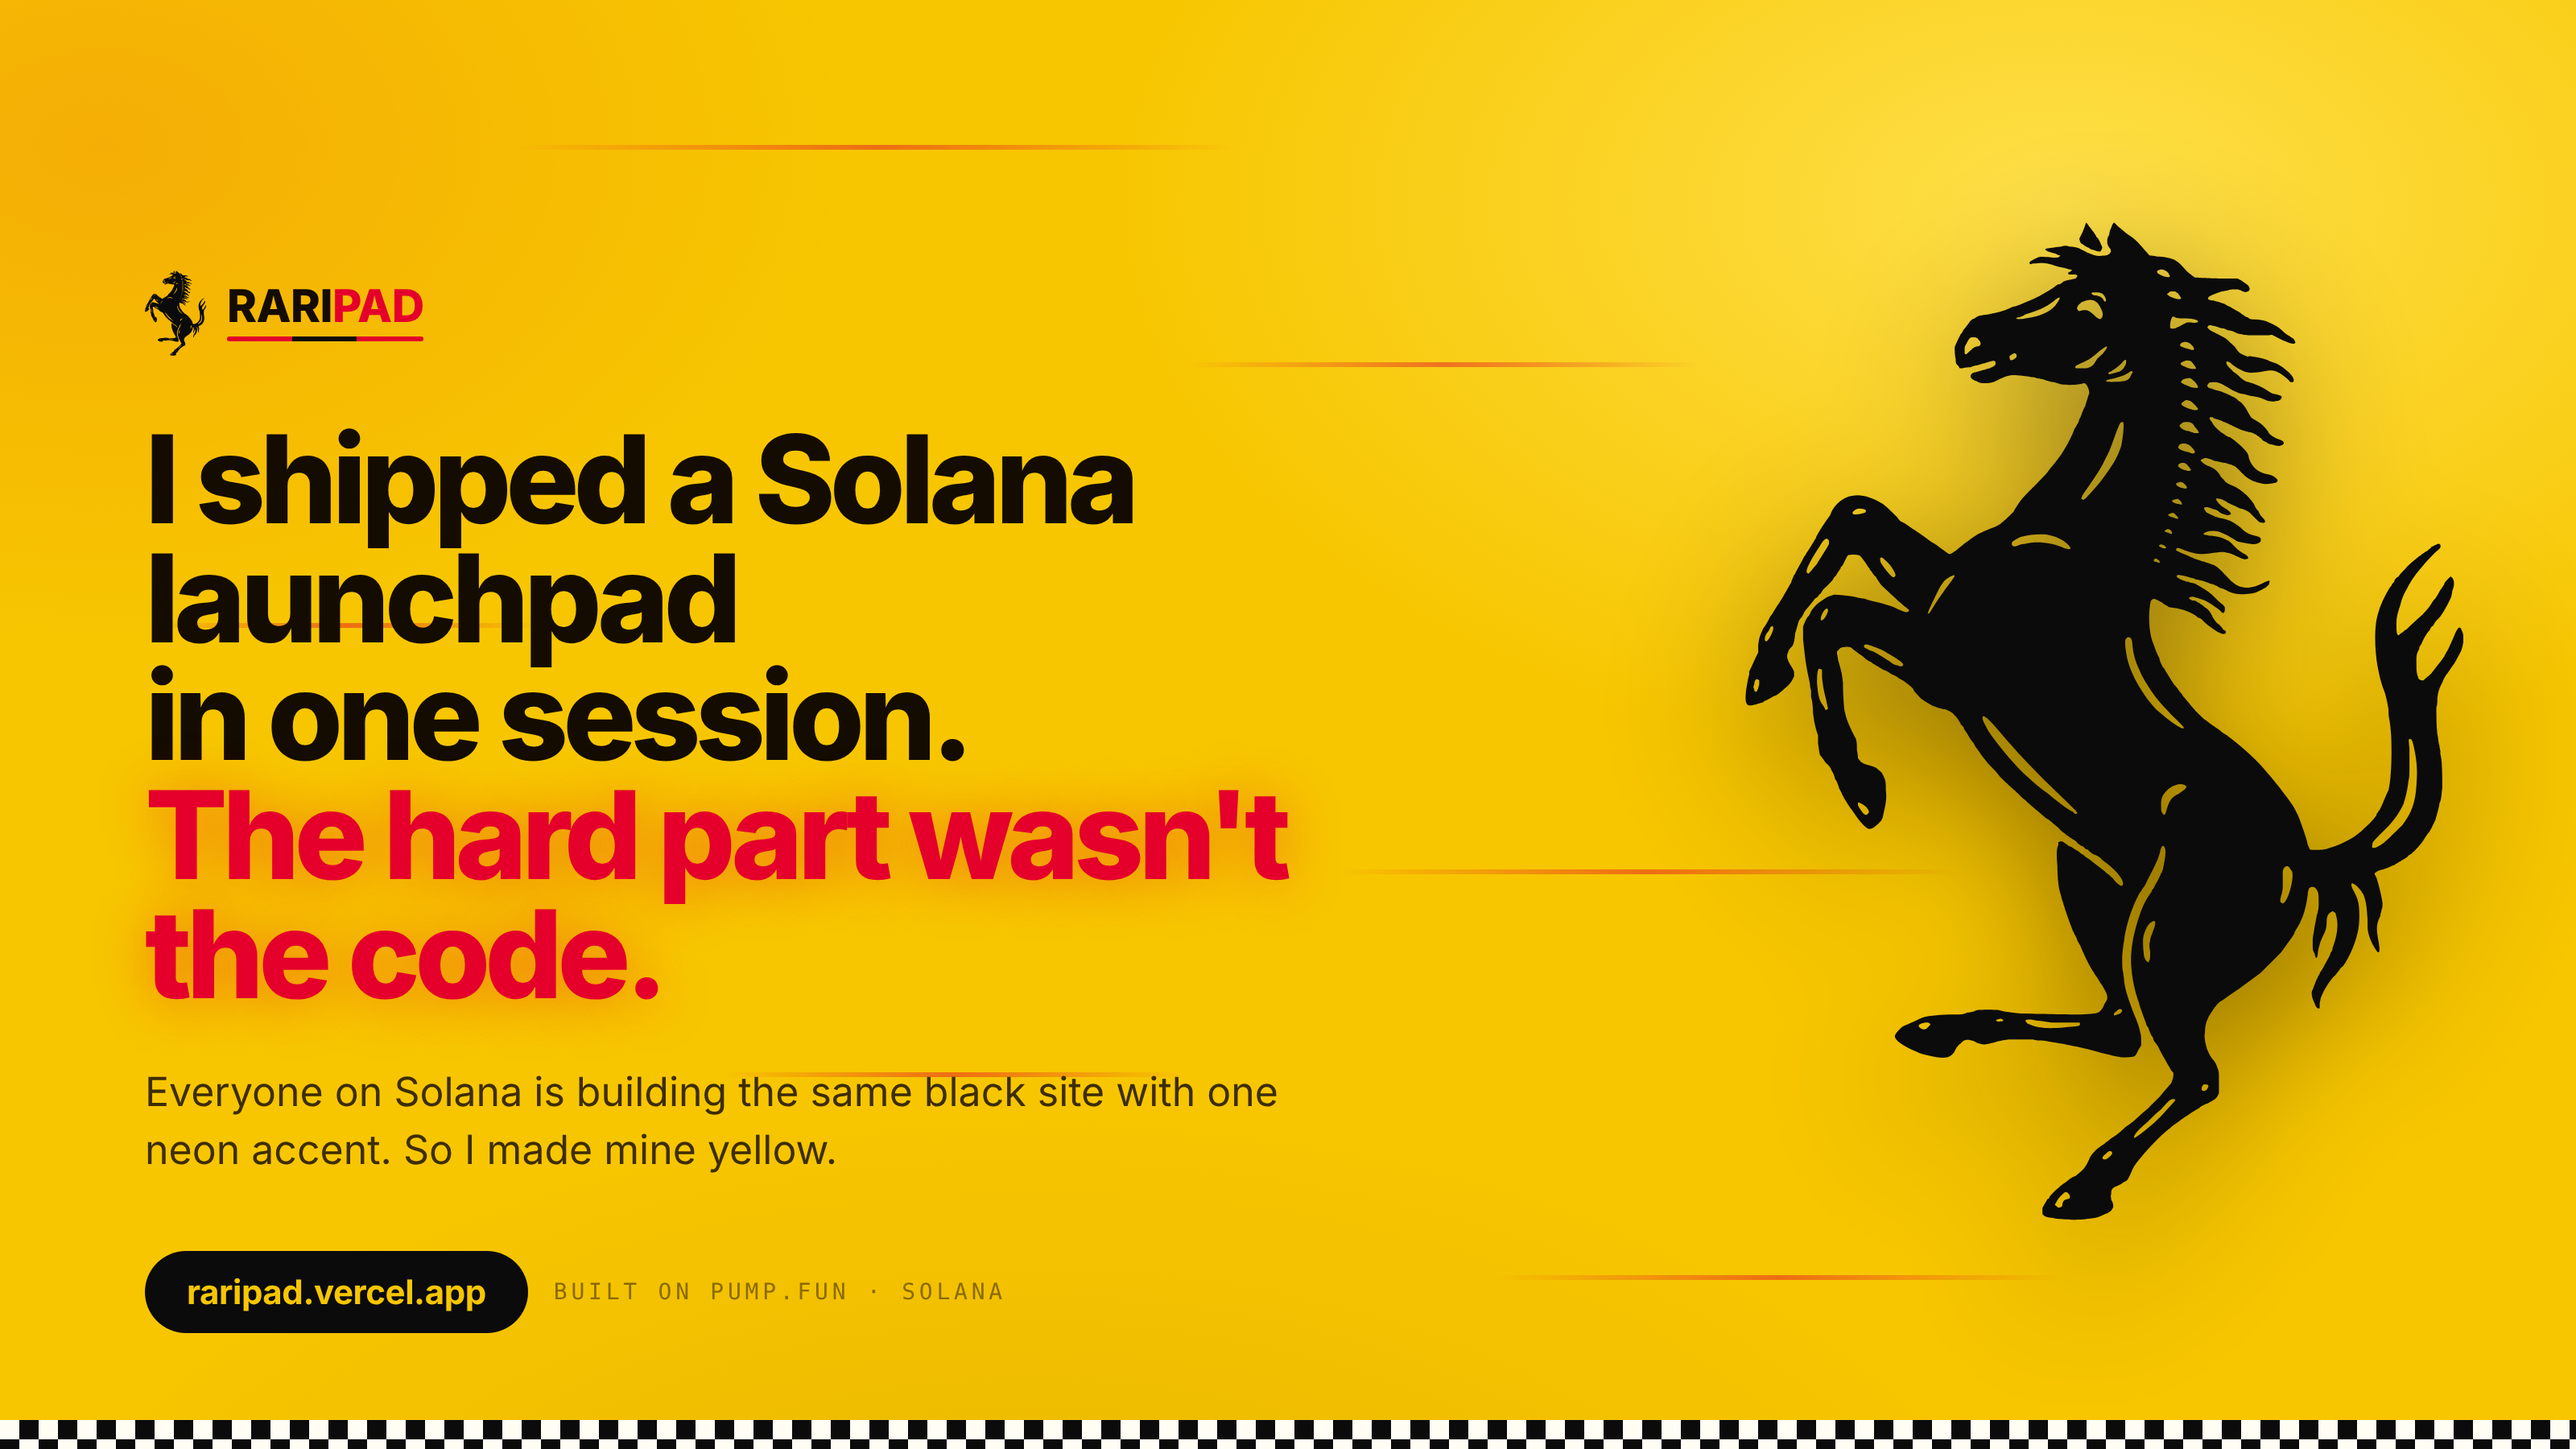
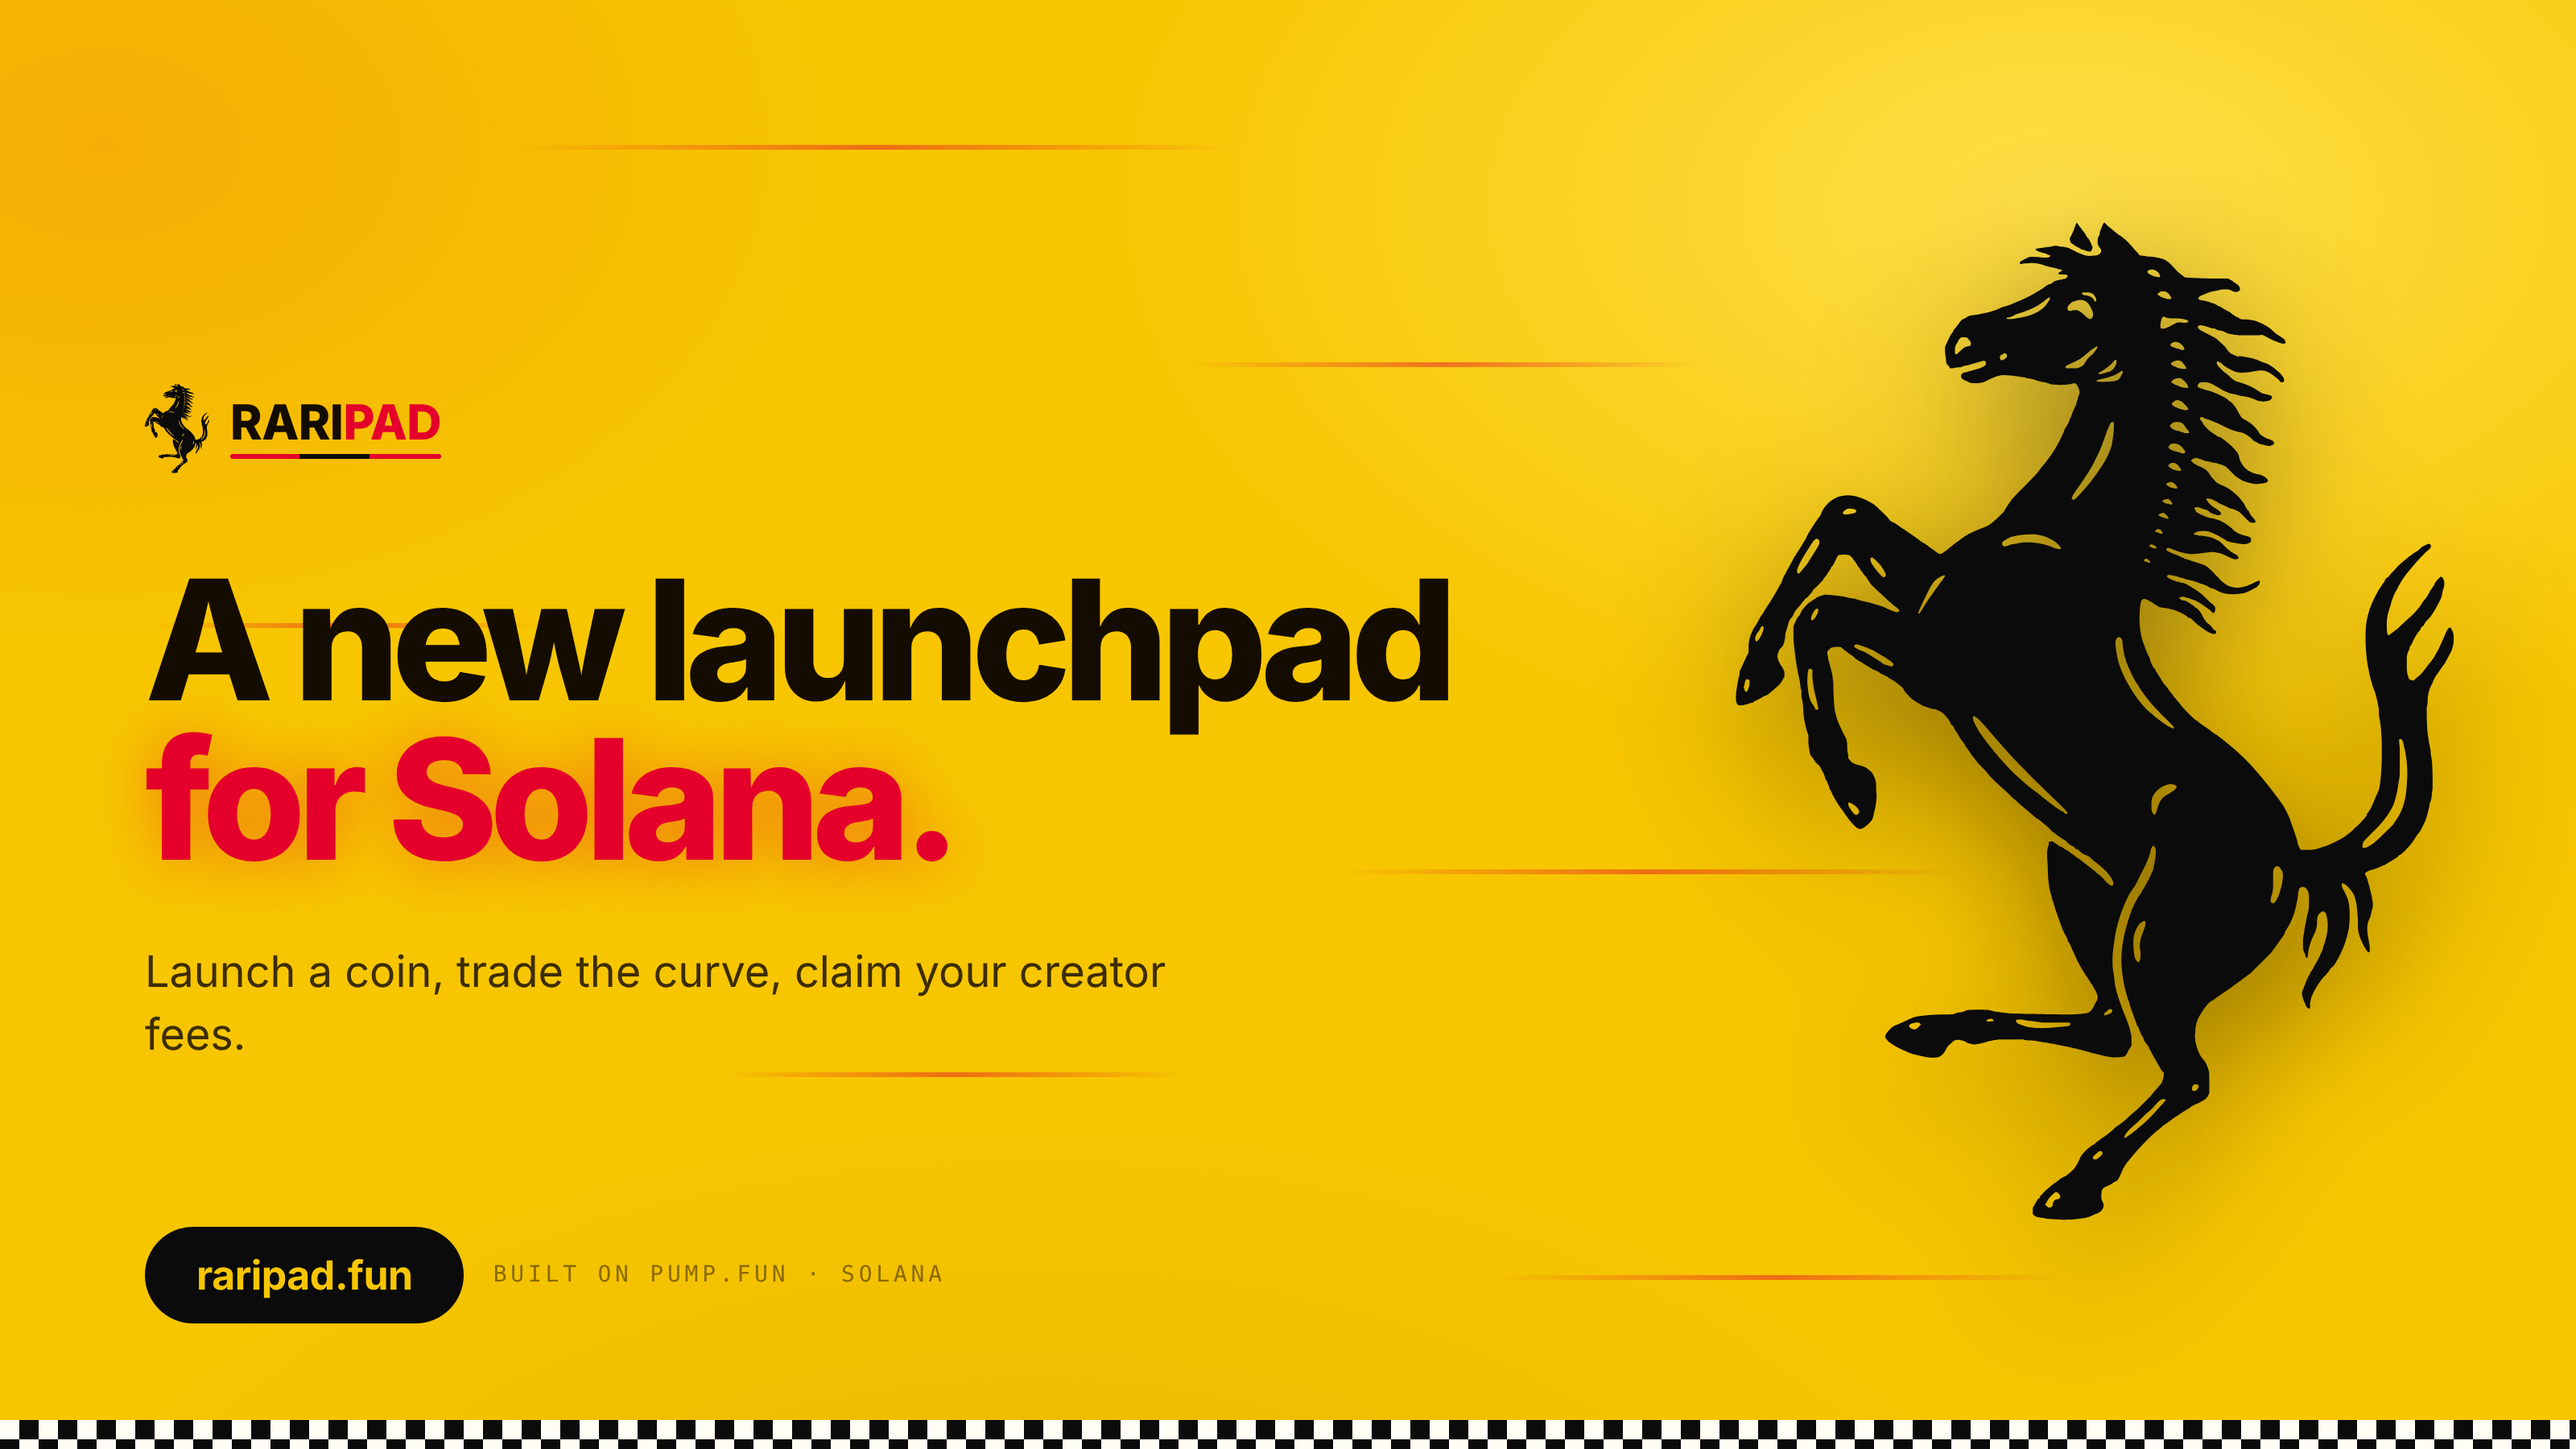
Simplify the cover headline and put the real domain on it
The cover said raripad.vercel.app and carried the article's long headline.
It now reads "A new launchpad for Solana" over raripad.fun, which is what
someone scrolling past needs to take from one glance. The article's own
vercel.app references follow the domain too.

Claude-Session: https://claude.ai/code/session_012D2kyBisM6XS6i5UyXdgQe

diff --git a/ARTICLE.md b/ARTICLE.md
@@ -80,6 +80,6 @@ That's not me being nice. If someone gets motion sick on your landing page, they
 
 **If the chain can be your database, let it.** Less to run, and more worth trusting.
 
-RARIPAD is live at **raripad.vercel.app** — yellow, loud, and running on pump.fun's program.
+RARIPAD is live at **raripad.fun** — yellow, loud, and running on pump.fun's program.
 
 Go look at what everyone else in your space has built. Then go build what's next.
